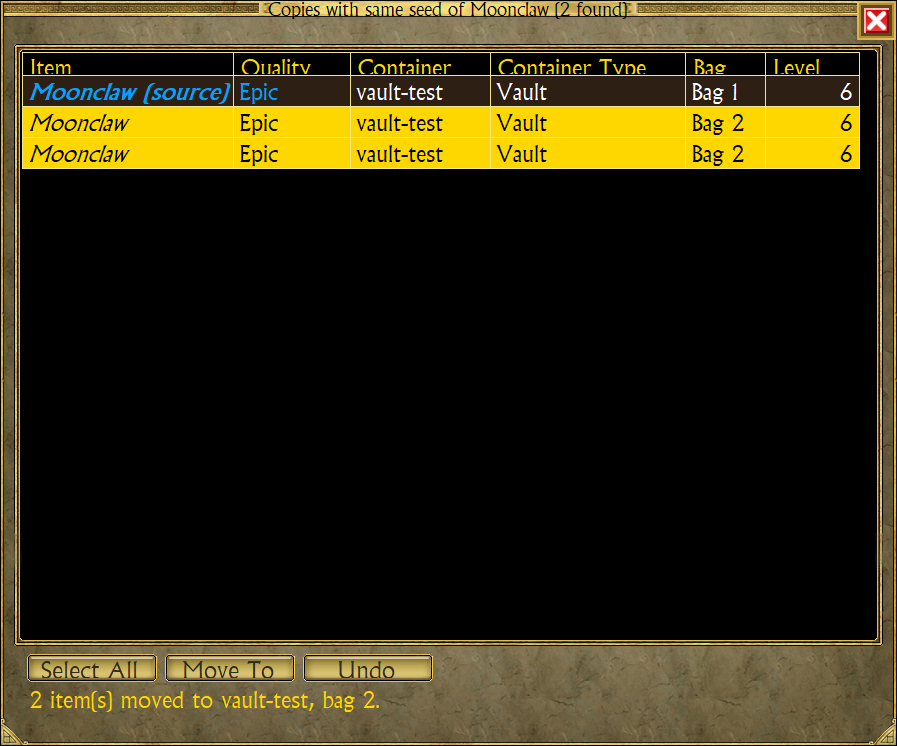
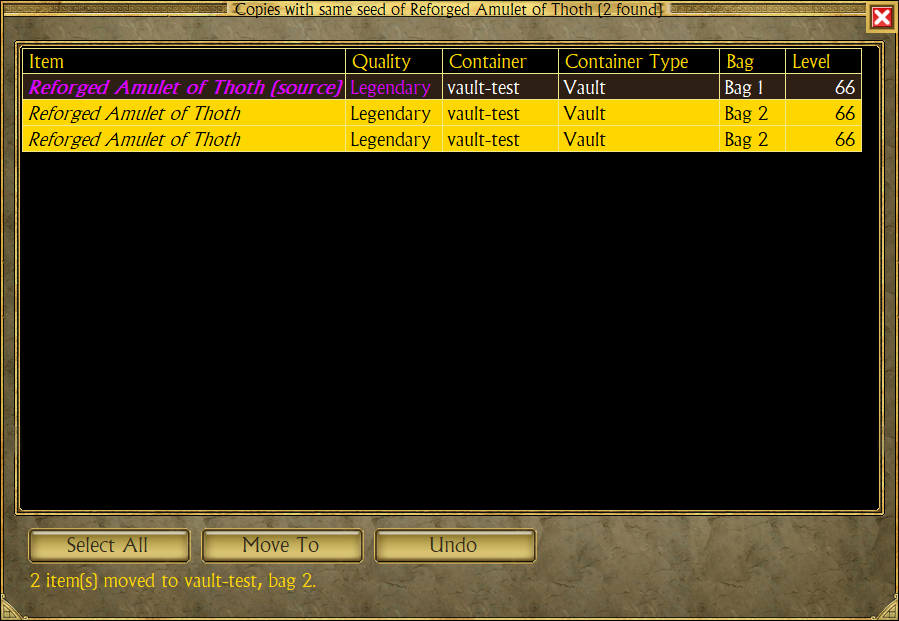
fix(search): results window text no longer cut at higher DPI and zoom
At 144 dpi (and with the user zoom) the results window cut the bottom of
its header row and of its button texts, and the top of its title:
- Select All, Move To and Undo were added after InitializeComponent:
  Windows Forms scales a form's controls to the DPI when the designer's
  ResumeLayout runs, so they kept their 96 dpi box while their font, in
  points, followed the DPI. They are now made inside the designer's
  layout suspension, with the padding added around the list.
- The header row had a fixed height (24, not scaled): it now sizes to
  its text, on one line.
- The window did not follow the user zoom, only its buttons did: it now
  follows it like the other designer dialogs (FollowsUserZoom), its
  list fonts made again at the zoom, its buttons built at zoom 1. Its
  height on opening counts the header row.
- Every window's title (VaultForm) was drawn at 9.5 pt x zoom in the top
  border picture, which keeps its 17 px: at 144 dpi or a zoom of 1.2
  its top was cut (Vault Maintenance too). The title font is now capped
  so that it fits the picture; unchanged at 120 dpi up to zoom 1.

The documentation capture is taken again on neutral data (vault-test).

diff --git a/src/TQVaultAE.GUI/Dialogs/ResultsDialog.cs b/src/TQVaultAE.GUI/Dialogs/ResultsDialog.cs
@@ -73,18 +73,23 @@ public partial class ResultsDialog : VaultForm
 	{
 		this.Owner = instance;
 
+		// The commands under the list are made in code: inside the designer's layout suspension, so that Windows Forms
+		// scales them to the monitor's DPI with the rest of the dialog when it resumes (it scales only the controls
+		// present then: the buttons kept their 96 dpi size, their text cut at a higher DPI).
+		this.SuspendLayout();
 		this.InitializeComponent();
 
 		// Several rows (Ctrl or Shift click, Ctrl+A): Move To and Undo act on the selection.
 		this.resultsDataGridView.MultiSelect = true;
 		this.resultsDataGridView.CellMouseDown += this.ResultsDataGridViewCellMouseDown;
 		this.BuildMoveControls();
+		// Room for the marble around the frame, as in Item Properties; under the last row, black like its lists.
+		this.Padding = new Padding(this.Padding.Left + 10, this.Padding.Top + 10, this.Padding.Right + 10, this.Padding.Bottom + 6);
+		this.ResumeLayout(false);
 
 		// The look of Advanced Search and Item Properties: the main window's marble, the list in a caravan frame, its
 		// headers in gold on black (the system's light headers otherwise).
 		CaravanLook.Apply(this, MarbleBackground.Marble.MainWindow, this.movePanel, this.moveButtons);
-		// Room for the marble around the frame, as in Item Properties; under the last row, black like its lists.
-		this.Padding = new Padding(this.Padding.Left + 10, this.Padding.Top + 10, this.Padding.Right + 10, this.Padding.Bottom + 6);
 		this.resultsDataGridView.BackgroundColor = Color.Black;
 		this.resultsDataGridView.BorderStyle = BorderStyle.None;
 		CaravanFrame.FrameAround(this.resultsDataGridView);
@@ -94,18 +99,12 @@ public partial class ResultsDialog : VaultForm
 		headers.SelectionForeColor = headers.ForeColor;
 		this.resultsDataGridView.EnableHeadersVisualStyles = false;
 
-		#region Apply custom font
-
-		// The marble dialogs' text size; the item name in italics, the other columns regular.
-		var regular = FontService.GetFontLight(CaravanLook.TextSize);
-		this.resultsDataGridView.ColumnHeadersDefaultCellStyle.Font = regular;
-		this.columnItem.DefaultCellStyle.Font = FontService.GetFontLight(CaravanLook.TextSize, FontStyle.Italic);
-		foreach (var column in new DataGridViewColumn[] { this.columnQuality, this.columnContainerName, this.columnContainerType, this.columnSack, this.columnLevel })
-			column.DefaultCellStyle.Font = regular;
-		this.Font = regular;
-		this.reportLabel.Font = regular;
-
-		#endregion
+		this.Font = FontService.GetFontLight(CaravanLook.TextSize);
+		this.ApplyListFonts();
+		// The header row as high as its text, on one line: a fixed height did not follow the font, which grows with the DPI
+		// and the zoom.
+		headers.WrapMode = DataGridViewTriState.False;
+		this.resultsDataGridView.ColumnHeadersHeightSizeMode = DataGridViewColumnHeadersHeightSizeMode.AutoSize;
 
 		this.resultsList = [];
 
@@ -120,6 +119,30 @@ public partial class ResultsDialog : VaultForm
 		this.DrawCustomBorder = true;
 
 		this.LastFormSize = this.Size;
+	}
+
+	/// <summary>Designed at zoom 1: scaled to the user's zoom when made (<see cref="VaultForm.ApplyUserZoom"/>).</summary>
+	protected internal override bool FollowsUserZoom => true;
+
+	/// <summary>The list's fonts are its own (not the dialog's, which the zoom grows): made again at the zoom.</summary>
+	protected override void OnUserZoomApplied()
+	{
+		base.OnUserZoomApplied();
+		this.ApplyListFonts();
+	}
+
+	/// <summary>
+	/// The fonts of the list and of the report under it, at the dialog's zoom (<see cref="VaultForm.ScaledZoom"/>): the
+	/// marble dialogs' text size, the item name in italics, the other columns regular.
+	/// </summary>
+	private void ApplyListFonts()
+	{
+		var regular = FontService.GetFontLight(CaravanLook.TextSize, this.ScaledZoom);
+		this.resultsDataGridView.ColumnHeadersDefaultCellStyle.Font = regular;
+		this.columnItem.DefaultCellStyle.Font = FontService.GetFontLight(CaravanLook.TextSize, FontStyle.Italic, this.ScaledZoom);
+		foreach (var column in new DataGridViewColumn[] { this.columnQuality, this.columnContainerName, this.columnContainerType, this.columnSack, this.columnLevel })
+			column.DefaultCellStyle.Font = regular;
+		this.reportLabel.Font = regular;
 	}
 
 	/// <summary>
@@ -167,7 +190,7 @@ public partial class ResultsDialog : VaultForm
 
 		totalWidth += this.resultsDataGridView.Margin.Horizontal;
 
-		int totalHeight = 0;
+		int totalHeight = this.resultsDataGridView.ColumnHeadersHeight;
 		foreach (DataGridViewRow row in this.resultsDataGridView.Rows)
 			totalHeight += row.Height;
 
@@ -272,7 +295,7 @@ public partial class ResultsDialog : VaultForm
 
 				// The item searched from, in bold.
 				if (isSource)
-					this.resultsDataGridView.Rows[currentRow].Cells[0].Style.Font = FontService.GetFontLight(CaravanLook.TextSize, FontStyle.Bold | FontStyle.Italic);
+					this.resultsDataGridView.Rows[currentRow].Cells[0].Style.Font = FontService.GetFontLight(CaravanLook.TextSize, FontStyle.Bold | FontStyle.Italic, this.ScaledZoom);
 			}
 		}
 	}
@@ -407,7 +430,8 @@ public partial class ResultsDialog : VaultForm
 	/// </summary>
 	private void BuildMoveControls()
 	{
-		float zoom = this.UIService.Zoom;
+		// At zoom 1, like the designer's controls: the dialog is scaled to the user's zoom once made (FollowsUserZoom).
+		const float zoom = 1.0F;
 		this.selectAllButton = CaravanDialog.Button(this.FontService, zoom, "selectAllButton", Resources.ResultsMenuSelectAll);
 		this.selectAllButton.Click += (_, _) => this.SelectAllRows();
 		this.moveButton = CaravanDialog.Button(this.FontService, zoom, "moveButton", Resources.ResultsMenuMoveTo);

diff --git a/src/TQVaultAE.GUI/Forms/VaultForm.cs b/src/TQVaultAE.GUI/Forms/VaultForm.cs
@@ -284,9 +284,15 @@ public partial class VaultForm : Form, IScalingControl
 
 	/// <summary>
 	/// The caption's font at <paramref name="zoom"/> (points follow the DPI by themselves), the form's own copy: the form
-	/// disposes it, and the service shares its fonts.
+	/// disposes it, and the service shares its fonts. No taller than the top border picture it is drawn on, which keeps its
+	/// own height at every DPI and zoom: at 144 dpi, or a zoom of 1.2, 9.5 pt grew past it and the caption's top was cut.
 	/// </summary>
-	private Font TitleFontAt(float zoom) => (Font)this.FontService.GetFontLight(9.5F, zoom).Clone();
+	private Font TitleFontAt(float zoom)
+	{
+		// Fonts in points are drawn for the system DPI: an em of size * DPI / 72 pixels.
+		float fitting = CustomBorderThickness.Top * 72F / (this.UIService.DESIGNDPI * this.UIService.SystemDpiScale);
+		return (Font)this.FontService.GetFontLight(Math.Min(9.5F * zoom, fitting)).Clone();
+	}
 
 	internal const int NORMAL_FORMWIDTH = 1350;
 	internal const int NORMAL_FORMHEIGHT = 910;
